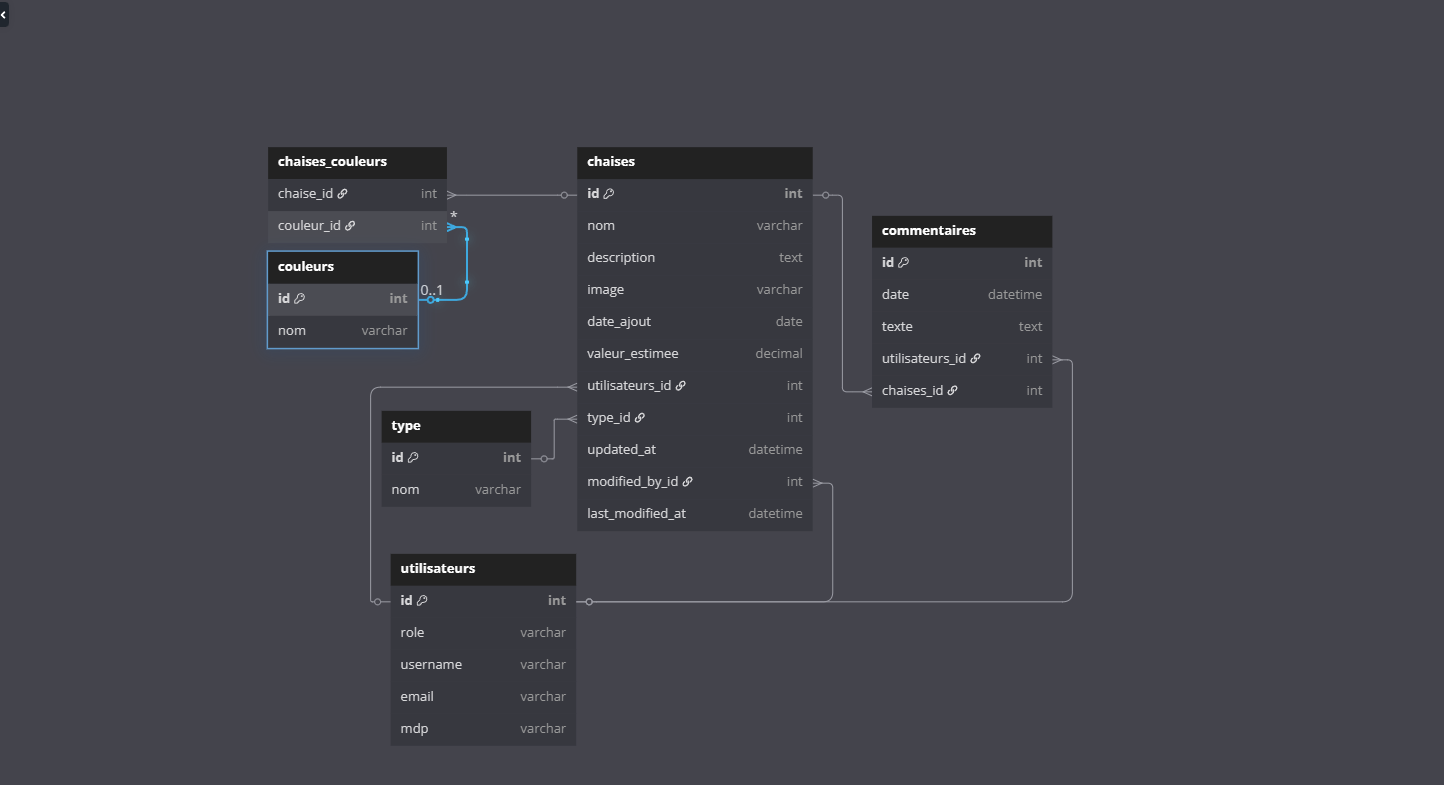
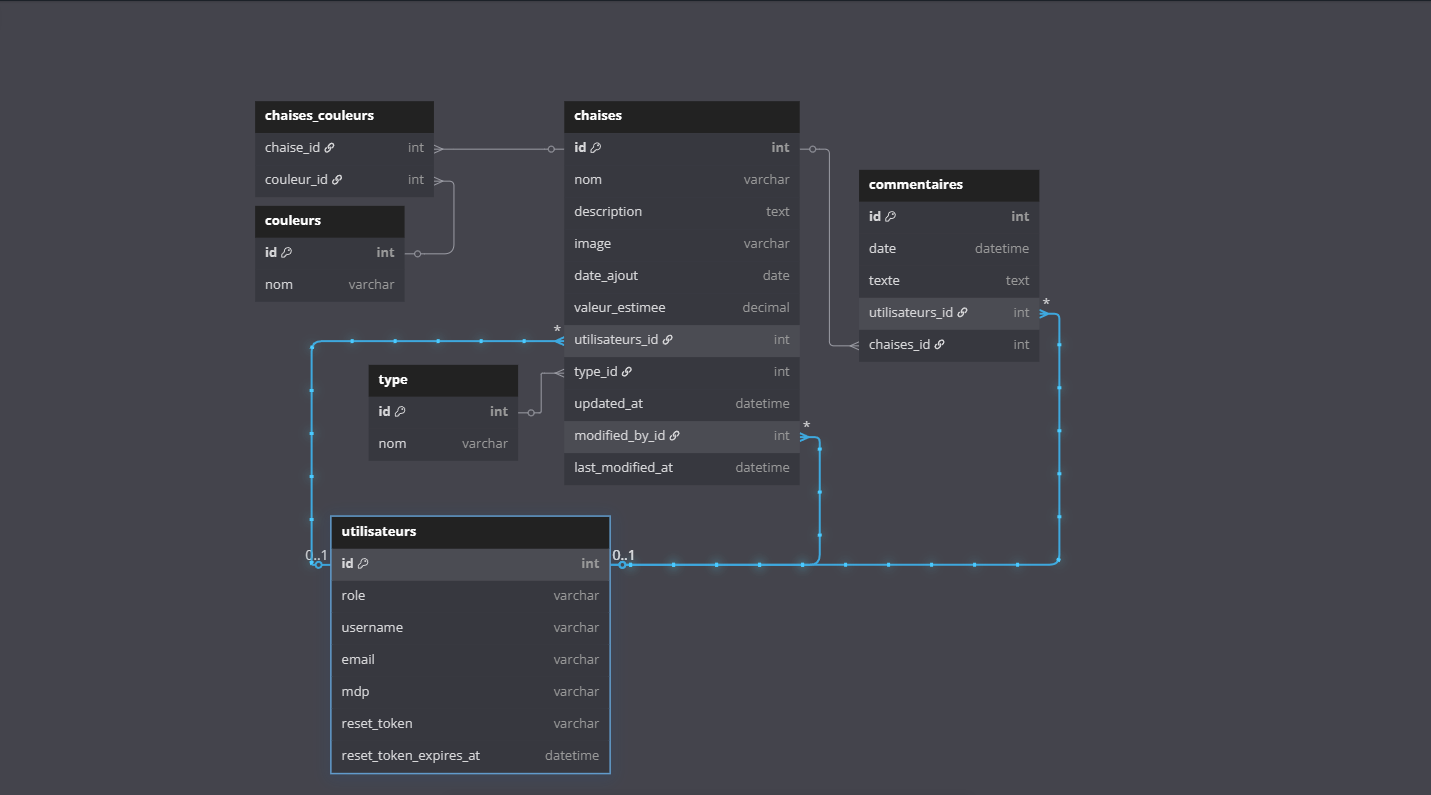
recuperation mdp

diff --git a/assets/styles/components/_formulaires.scss b/assets/styles/components/_formulaires.scss
@@ -80,3 +80,27 @@ input[type="file"] {
     background-color: v.$color-gold;
     color: white;
 }
+
+
+//MDP OUBLIE
+.login-action {
+    display: flex;
+    justify-content: space-between;
+    align-items: center;
+    margin-top: 1rem;
+
+    .btn {
+        margin-right: 1rem;
+    }
+
+    .mdp {
+        font-size: 0.9rem;
+        color: v.$color-text-fonces;
+        text-decoration: underline;
+        transition: color 0.3s;
+
+        &:hover {
+            color: v.$color-red;
+        }
+    }
+}

diff --git a/assets/styles/base/_base.scss b/assets/styles/base/_base.scss
@@ -61,3 +61,17 @@ h3 {
     text-align: center;
 }
 
+.flash-error {
+    background-color: rgba(202, 96, 46, 0.2);
+    border-left: 5px solid #C9A74E;
+    color: v.$color-text-clair;
+    padding: 1rem 1.5rem;
+    margin: 1rem auto;
+    border-radius: 8px;
+    font-weight: bold;
+    max-width: 800px;
+    box-shadow: 0 2px 6px rgba(0, 0, 0, 0.2);
+    font-family: v.$font-h3;
+    text-align: center;
+}
+

diff --git a/src/Controller/MotDePasseController.php b/src/Controller/MotDePasseController.php
@@ -1,0 +1,92 @@
+<?php
+
+namespace App\Controller;
+
+use App\Form\RecupMDPForm;
+use App\Form\ModifyMDPForm;
+use Symfony\Component\Uid\Uuid;
+use Symfony\Component\Mime\Email;
+use App\Repository\UserRepository;
+use Doctrine\ORM\EntityManagerInterface;
+use Symfony\Component\HttpFoundation\Request;
+use Symfony\Component\Mailer\MailerInterface;
+use Symfony\Component\HttpFoundation\Response;
+use Symfony\Component\Routing\Attribute\Route;
+use Symfony\Component\Routing\Generator\UrlGeneratorInterface;
+use Symfony\Bundle\FrameworkBundle\Controller\AbstractController;
+
+final class MotDePasseController extends AbstractController
+{
+    // DEMANDE DE MDP
+    #[Route('/mot/de/passe', name: 'request')]
+    public function request(Request $request, UserRepository $userRepository, EntityManagerInterface $entityManager, MailerInterface $mailer): Response
+    {
+        $form = $this->createForm(RecupMDPForm::class);
+        $form->handleRequest($request);
+
+        if ($form ->isSubmitted() && $form->isValid()) {
+            $email = $form->get('email')->getData();
+            $user = $userRepository->findOneBy(['email' => $email]);
+
+            if ($user) {
+                $token = Uuid::v4()->toRfc4122();
+                $user->setResetToken($token);
+                $user->setResetTokenExpiresAt((new \DateTime())->modify('+1 hour'));
+
+                $entityManager->flush();
+
+                $resetLink = $this->generateUrl('reset', ['token' => $token], UrlGeneratorInterface::ABSOLUTE_URL);
+                $email = (new Email())
+                    ->from('noreply@yourdomain.com')
+                    ->to($user->getEmail())
+                    ->subject('Réinitialisation de votre mot de passe')
+                    ->text("Voici votre lien de réinitialisation : $resetLink");
+
+                    $mailer->send($email);
+                    $this->addFlash('success', 'un email de réinitialisation a été envoyé.');
+
+                    return $this->redirectToRoute('login');
+            }
+
+            $this->addFlash('error', 'Aucun utilisateur trouvé pour cet email.');
+        }
+
+        return $this->render('mot_de_passe/request.html.twig', [
+            'requestForm' => $form->createView(),
+        ]);
+    }
+
+
+// RESET 
+
+    #[Route('/mot/de/passe/{token}', name: 'reset')]
+    public function reset(string $token, Request $request, UserRepository $userRepository, EntityManagerInterface $entityManager): Response
+    {
+        $user = $userRepository->findOneBy(['resetToken' => $token]);
+        if (!$user || !$user->isResetTokenValid()) {
+            $this->addFlash('danger', 'Ce lien de réinitialisation est invalide ou expiré.');
+            return $this->redirectToRoute('request');
+        }
+
+        $form = $this->createForm(ModifyMDPForm::class);
+        $form->handleRequest($request);
+
+        if ($form ->isSubmitted() && $form->isValid()) {
+            $password=$form->get('plainPassword')->getData();
+            $hashedPassword = password_hash($password, PASSWORD_BCRYPT);
+            $user->setPassword($hashedPassword);
+
+            $user->setResetToken(null);
+            $user->setResetTokenExpiresAt(null);
+
+            $entityManager->flush();
+
+            $this->addFlash('success', 'Votre mot de passe a été mis à jour avec succès.');
+            return $this->redirectToRoute('login');
+        }
+
+        return $this->render('mot_de_passe/reset.html.twig', [
+            'resetForm' => $form->createView(),
+        ]);
+    }
+}

diff --git a/src/Entity/User.php b/src/Entity/User.php
@@ -48,6 +48,14 @@ class User implements UserInterface, PasswordAuthenticatedUserInterface
     #[ORM\OneToMany(targetEntity: Commentaires::class, mappedBy: 'user')]
     private Collection $commentaires;
 
+    #[ORM\Column(length: 255, nullable: true)]
+    private ?string $resetToken = null;
+
+    #[ORM\Column(nullable: true)]
+    private ?\DateTime $resetTokenExpiresAt = null;
+
+    private ?string $plainPassword = null;
+
     public function __construct()
     {
         $this->chaises = new ArrayCollection();
@@ -196,6 +204,46 @@ class User implements UserInterface, PasswordAuthenticatedUserInterface
             }
         }
 
+        return $this;
+    }
+
+    public function getResetToken(): ?string
+    {
+        return $this->resetToken;
+    }
+
+    public function setResetToken(?string $resetToken): static
+    {
+        $this->resetToken = $resetToken;
+
+        return $this;
+    }
+
+    public function getResetTokenExpiresAt(): ?\DateTime
+    {
+        return $this->resetTokenExpiresAt;
+    }
+
+    public function setResetTokenExpiresAt(?\DateTime $resetTokenExpiresAt): static
+    {
+        $this->resetTokenExpiresAt = $resetTokenExpiresAt;
+
+        return $this;
+    }
+
+    public function isResetTokenValid(): bool
+    {
+        return $this->resetTokenExpiresAt && $this->resetTokenExpiresAt > new \DateTime();
+    }
+
+    public function getPlainPassword(): ?string
+    {
+        return $this->plainPassword;
+    }
+
+    public function setPlainPassword(?string $plainPassword): self
+    {
+        $this->plainPassword = $plainPassword;
         return $this;
     }
 }

diff --git a/src/Form/ModifyMDPForm.php b/src/Form/ModifyMDPForm.php
@@ -1,0 +1,45 @@
+<?php
+
+namespace App\Form;
+
+use App\Entity\User;
+use Symfony\Component\Form\AbstractType;
+use Symfony\Component\Validator\Constraints as Assert;
+use Symfony\Component\Form\Extension\Core\Type\PasswordType;
+use Symfony\Component\Form\Extension\Core\Type\RepeatedType;
+use Symfony\Component\Form\FormBuilderInterface;
+use Symfony\Component\OptionsResolver\OptionsResolver;
+
+class ModifyMDPForm extends AbstractType
+{
+    public function buildForm(FormBuilderInterface $builder, array $options): void
+    {
+        $builder
+        ->add('plainPassword', RepeatedType::class, [
+            'type' => PasswordType::class,
+            'first_options' => [
+                'label' => 'Nouveau mot de passe',
+            ],
+            'second_options' => [
+                'label' => 'Confirmez le mot de passe',
+            ],
+            'invalid_message' => 'Les mots de passe doivent correspondre',
+            'constraints' => [
+                new Assert\NotBlank([
+                    'message' => 'Le mot de passe est requis'
+                ]),
+                new Assert\Length([
+                    'min' => 6,
+                    'minMessage' => 'Le mot de passe doit contenir au moins {{ limit }} caractères',
+                ])
+            ],
+        ]);
+    }
+
+    public function configureOptions(OptionsResolver $resolver): void
+    {
+        $resolver->setDefaults([
+            'data_class' => User::class,
+        ]);
+    }
+}

diff --git a/src/Form/RecupMDPForm.php b/src/Form/RecupMDPForm.php
@@ -1,0 +1,34 @@
+<?php
+
+namespace App\Form;
+
+use App\Entity\User;
+use Symfony\Component\Form\AbstractType;
+use Symfony\Component\Form\FormBuilderInterface;
+use Symfony\Component\Validator\Constraints\Email;
+use Symfony\Component\Validator\Constraints\NotBlank;
+use Symfony\Component\OptionsResolver\OptionsResolver;
+use Symfony\Component\Form\Extension\Core\Type\EmailType;
+
+class RecupMDPForm extends AbstractType
+{
+    public function buildForm(FormBuilderInterface $builder, array $options): void
+    {
+        $builder
+            ->add('email', EmailType::class, [
+                'label' => 'Email',
+                'constraints' => [
+                    new NotBlank(['message' => 'Veuillez saisir votre email']),
+                    new Email(['message' => 'Veuillez saisir un email valide']),
+                ],
+            ]);
+            
+    }
+
+    public function configureOptions(OptionsResolver $resolver): void
+    {
+        $resolver->setDefaults([
+            'data_class' => User::class,
+        ]);
+    }
+}

diff --git a/migrations/Version20250701090934.php b/migrations/Version20250701090934.php
@@ -1,0 +1,35 @@
+<?php
+
+declare(strict_types=1);
+
+namespace DoctrineMigrations;
+
+use Doctrine\DBAL\Schema\Schema;
+use Doctrine\Migrations\AbstractMigration;
+
+/**
+ * Auto-generated Migration: Please modify to your needs!
+ */
+final class Version20250701090934 extends AbstractMigration
+{
+    public function getDescription(): string
+    {
+        return '';
+    }
+
+    public function up(Schema $schema): void
+    {
+        // this up() migration is auto-generated, please modify it to your needs
+        $this->addSql(<<<'SQL'
+            ALTER TABLE user CHANGE reset_token_expires_at reset_token_expires_at DATETIME DEFAULT NULL
+        SQL);
+    }
+
+    public function down(Schema $schema): void
+    {
+        // this down() migration is auto-generated, please modify it to your needs
+        $this->addSql(<<<'SQL'
+            ALTER TABLE user CHANGE reset_token_expires_at reset_token_expires_at DATETIME DEFAULT NULL COMMENT '(DC2Type:datetime_immutable)'
+        SQL);
+    }
+}

diff --git a/migrations/Version20250701090530.php b/migrations/Version20250701090530.php
@@ -1,0 +1,35 @@
+<?php
+
+declare(strict_types=1);
+
+namespace DoctrineMigrations;
+
+use Doctrine\DBAL\Schema\Schema;
+use Doctrine\Migrations\AbstractMigration;
+
+/**
+ * Auto-generated Migration: Please modify to your needs!
+ */
+final class Version20250701090530 extends AbstractMigration
+{
+    public function getDescription(): string
+    {
+        return '';
+    }
+
+    public function up(Schema $schema): void
+    {
+        // this up() migration is auto-generated, please modify it to your needs
+        $this->addSql(<<<'SQL'
+            ALTER TABLE user ADD reset_token VARCHAR(255) DEFAULT NULL, ADD reset_token_expires_at DATETIME DEFAULT NULL COMMENT '(DC2Type:datetime_immutable)'
+        SQL);
+    }
+
+    public function down(Schema $schema): void
+    {
+        // this down() migration is auto-generated, please modify it to your needs
+        $this->addSql(<<<'SQL'
+            ALTER TABLE user DROP reset_token, DROP reset_token_expires_at
+        SQL);
+    }
+}
